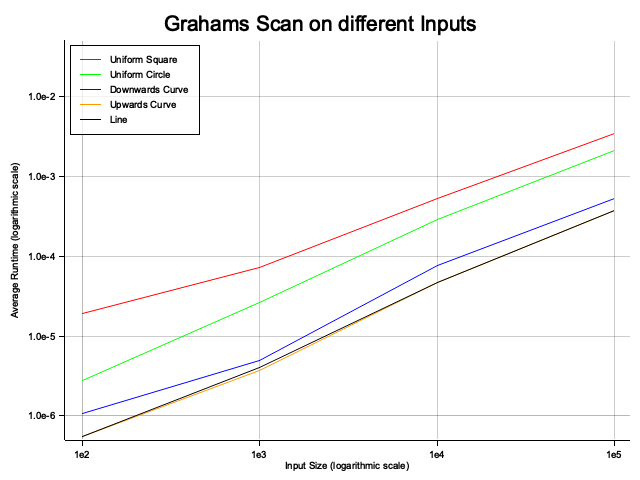
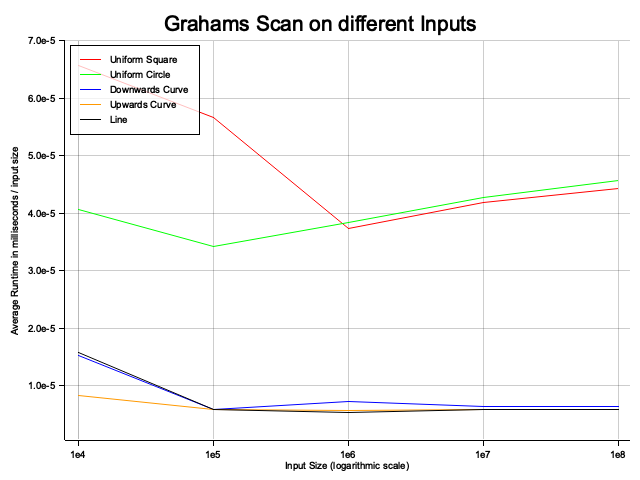
update plot y ranges

diff --git a/project_2/src/main.rs b/project_2/src/main.rs
@@ -17,7 +17,7 @@ mod utils;
 fn main() {
     let input_sizes: Vec<i64> = (4..=8).map(|exp| 10i64.pow(exp)).collect();
 
-    //different_inputs_runtime(input_sizes.clone());
+    different_inputs_runtime(input_sizes.clone());
     //upper_hull_size(input_sizes.clone());
     parallel_runtime(input_sizes);
 
@@ -33,6 +33,8 @@ fn different_inputs_runtime(input_sizes: Vec<i64>) {
         (InverseCurve::get_input, "Upwards Curve".to_string()),
         (Line::get_input, "Line".to_string()),
     ];
+    
+    let y_range = 5e-7..7e-5;
 
     let grahams_all_inputs = Plot {
         title: "Grahams Scan on different Inputs".to_string(),
@@ -41,7 +43,7 @@ fn different_inputs_runtime(input_sizes: Vec<i64>) {
         input_sizes: input_sizes.clone(),
         algorithm: grahams_scan,
         args: (Option::from(true), None),
-        y_range: 5e-7..5e-2,
+        y_range: y_range.clone(),
     };
 
     let gift_wrapping_all_inputs = Plot {
@@ -51,7 +53,7 @@ fn different_inputs_runtime(input_sizes: Vec<i64>) {
         input_sizes: input_sizes.clone(),
         algorithm: gift_wrapping_upper_hull,
         args: (None, None),
-        y_range: 5e-7..5e-2,
+        y_range: 5e-7..1e-2,
     };
 
     let grahams_parallel_all_inputs = Plot {
@@ -61,7 +63,7 @@ fn different_inputs_runtime(input_sizes: Vec<i64>) {
         input_sizes: input_sizes.clone(),
         algorithm: grahams_scan_parallel,
         args: (Option::from(true), Option::from(8)),
-        y_range: 5e-7..5e-2,
+        y_range: y_range.clone(),
     };
 
     let mut input_plots = vec![
@@ -81,11 +83,9 @@ fn different_inputs_runtime(input_sizes: Vec<i64>) {
 
             for input_size in &input_sizes {
                 // skip gift wrapping for large sizes on Curve Inputs and
-                // slightly larger sizes on Uniform Square and Uniform Circle Inputs
+                // slightly larger sizes on Uniform Circle Inputs
                 if input_plot.algorithm as usize == gift_wrapping_upper_hull as usize
                     && ((function as usize == Curve::get_input as usize && input_size > &100000)
-                        || (function as usize == UniformSquare::get_input as usize
-                            && input_size > &1000000)
                         || (function as usize == UniformCircle::get_input as usize
                             && input_size > &10000000))
                 {
@@ -134,7 +134,7 @@ fn different_inputs_runtime(input_sizes: Vec<i64>) {
         input_sizes: input_sizes.clone(),
         algorithm: grahams_scan_parallel, // not needed
         args: (None, None),
-        y_range: 5e-7..5e-2,
+        y_range: 2e-5..7e-5,
     };
     let uniform_circle_plot = Plot {
         title: "Performance on Uniformly Distributed Points in a Circle".to_string(),
@@ -156,7 +156,7 @@ fn different_inputs_runtime(input_sizes: Vec<i64>) {
         input_sizes: input_sizes.clone(),
         algorithm: grahams_scan_parallel, // not needed
         args: (None, None),
-        y_range: 5e-7..5e-2,
+        y_range: 2.5e-5..1e-3,
     };
     let curve_plot = Plot {
         title: "Performance on Points on a Downwards Curve".to_string(),
@@ -178,7 +178,7 @@ fn different_inputs_runtime(input_sizes: Vec<i64>) {
         input_sizes: input_sizes.clone(),
         algorithm: grahams_scan_parallel, // not needed
         args: (None, None),
-        y_range: 5e-7..5e-2,
+        y_range: 5e-6..1e-2,
     };
     let upwards_curve_plot = Plot {
         title: "Performance on Points on an Upwards Curve".to_string(),
@@ -200,7 +200,7 @@ fn different_inputs_runtime(input_sizes: Vec<i64>) {
         input_sizes: input_sizes.clone(),
         algorithm: grahams_scan_parallel, // not needed
         args: (None, None),
-        y_range: 5e-7..5e-2,
+        y_range: 5e-7..3.5e-5,
     };
     let line_plot = Plot {
         title: "Performance on Points on a Line".to_string(),
@@ -222,7 +222,7 @@ fn different_inputs_runtime(input_sizes: Vec<i64>) {
         input_sizes: input_sizes.clone(),
         algorithm: grahams_scan_parallel, // not needed
         args: (None, None),
-        y_range: 5e-7..5e-2,
+        y_range: 5e-7..3.5e-5,
     };
 
     // input_plots are grouped by solver
@@ -250,7 +250,7 @@ fn parallel_runtime(input_sizes: Vec<i64>) {
         input_sizes: input_sizes.clone(),
         algorithm: grahams_scan_parallel,
         args: (Option::from(false), Option::from(1)),
-        y_range: 5e-7..4e-5,
+        y_range: 5e-7..3.5e-5,
     };
 
     for thread in threads {
